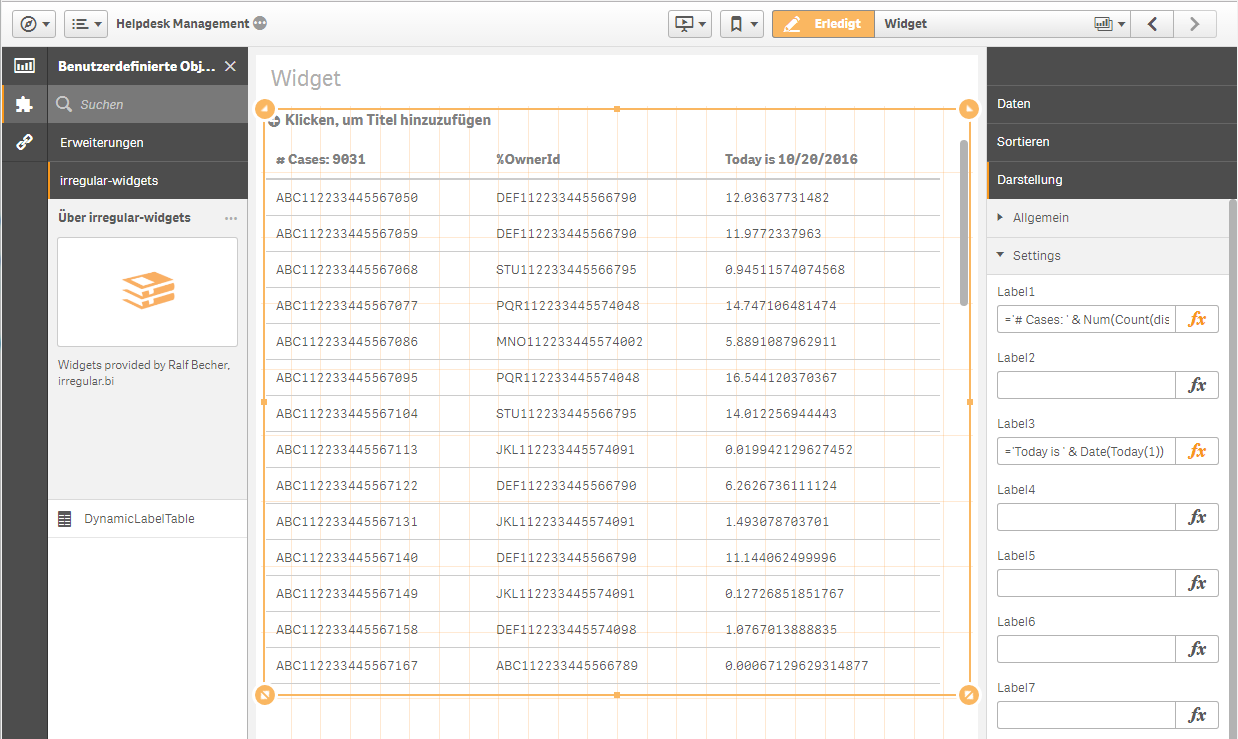
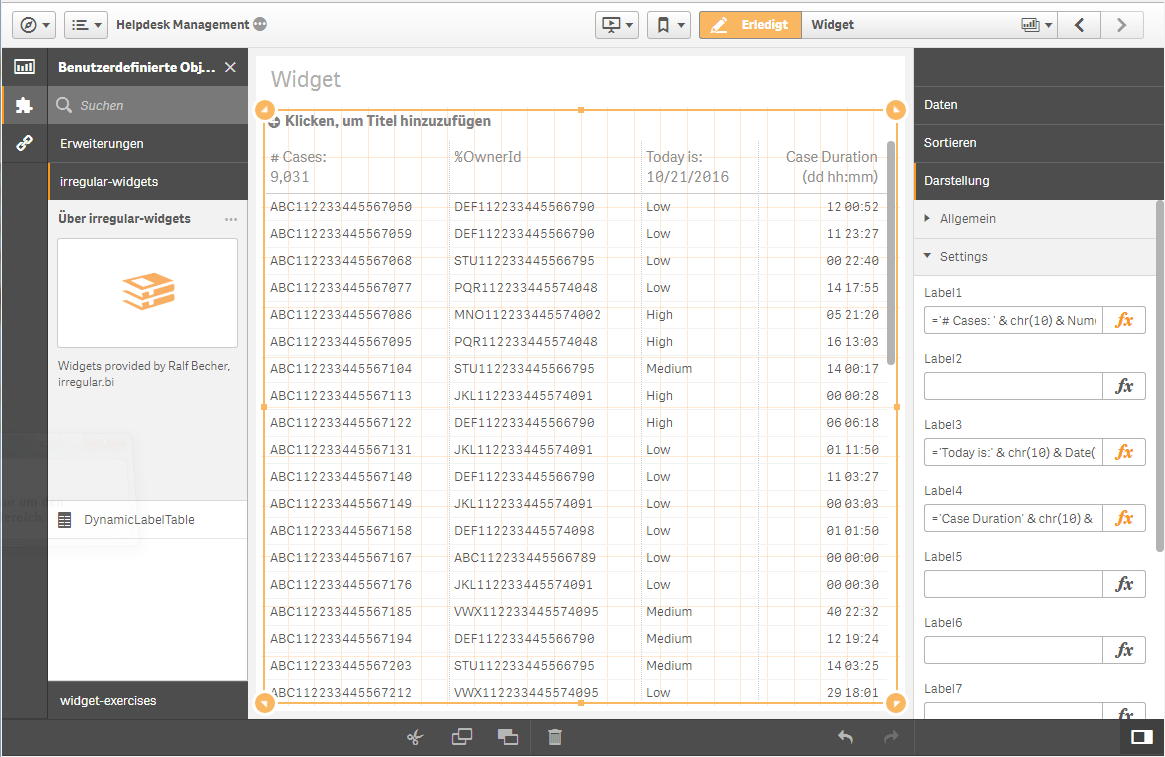
layout improvements

Changed region(s): [[0.0, 0.0, 1.0, 1.0], [0.4944, 0.0, 0.9888, 0.0622], [0.0927, 0.3424, 0.1545, 0.4357]]

diff --git a/irregular-widgets/80cca34a-cd52-41cf-9253-d81913b6e8e0.html b/irregular-widgets/80cca34a-cd52-41cf-9253-d81913b6e8e0.html
@@ -1,33 +1,52 @@
 <style>.wrapper {
-    margin-right:20px;
-	
-	table {
+    table {
+    	margin-right:20px;
+		border-collapse: collapse;
 		thead tr th {
-		border-bottom-style:solid;
-		border-bottom-color:#ccc;
-		border-bottom-width:2px;
-		padding-bottom:5px;
-		text-align:left;
-		color:#808080;
-		font-size:14px;
-		padding:10px;
+		border-bottom-width: 1px;
+    	border-bottom-style: solid;
+    	border-bottom-color: rgb(204, 204, 204);
+		color: #8C8C8C;
+		font-size: 1.15384615em;
+		font-weight: 400;
+		padding-top: 0.4em;
+    	padding-bottom: 0.4em;
+	  	padding-left: 0.30769231em;
+	  	padding-right: 0.61538462em;
 	  }
 	  
 	  tbody tr {
-		  line-height:35px;
-		  border-top-style:solid;
-		  border-top-color:#cccccc;
-		  border-top-width:1px;
+		line-height: 35px;
+		border-bottom-width: 1px;
+    	border-bottom-style: solid;
+    	border-bottom-color: rgb(242, 242, 242);
+		background-color: transparent;
 	  }
-	  tbody td {
-	  	padding-left:10px;
-	  }
+	tbody td {
+	    line-height: 1.23076923;
+		white-space: nowrap;
+		padding-top: 0.4em;
+	  	padding-bottom: 0.4em;
+	  	padding-left: 0.30769231em;
+	  	padding-right: 0.61538462em;
+   		max-height: 3.69230769em;
+		background-color: transparent;
+		}
 	}
-}
 
-
-.center {
-    text-align:center;
+	.cell-align-left {
+		text-overflow: ellipsis;
+		text-align: left;
+	}
+	.cell-align-right {
+		text-overflow: ellipsis;
+	  	text-align: right;
+	}
+	.cell-border-right {
+		border-right-width: 1px;
+    	border-right-style: dotted;
+    	border-right-color: rgb(204, 204, 204);	
+	}
 }</style>
 <div><div class="wrapper">
 <div class="top-header" ng-if="settings.tableHeaderTitle">
@@ -36,15 +55,15 @@
 <table>
 	<thead>
 		<tr>
-			<th ng-repeat="head in data.headers track by $index" class="header" qva-activate="head.orderBy()">
-			<span ng-if="settings['dynLabel'+($index+1)]" style="white-space: pre" >{{settings['dynLabel'+($index+1)]}}</span>
-			<span ng-if="!(settings['dynLabel'+($index+1)])" >{{head.qFallbackTitle}}</span>
+			<th ng-repeat="head in data.headers track by $index" class="header {{$index < (data.headers.length -1) &amp;&amp; ('cell-border-right')}} {{$index >= data.qHyperCube.qDimensionInfo.length &amp;&amp; ('cell-align-right') || ('cell-align-left')}}" qva-activate="head.orderBy()">
+			<span ng-if="settings['dynLabel'+($index+1)]" style="white-space: pre">{{settings['dynLabel'+($index+1)]}}</span>
+			<span ng-if="!(settings['dynLabel'+($index+1)])">{{head.qFallbackTitle}}</span>
 			</th>
 		</tr>
 	</thead>
 	<tbody>
 		<tr ng-repeat="row in data.rows track by $index">
-		  <td ng-repeat="cell in row.cells track by $index" qva-activate="cell.select()" class="selectable"> {{cell.qText}} </td>
+		  <td ng-repeat="cell in row.cells track by $index" qva-activate="cell.select()" class="selectable {{$index < (row.cells.length -1) &amp;&amp; ('cell-border-right')}} {{$index >= data.qHyperCube.qDimensionInfo.length &amp;&amp; ('cell-align-right') || ('cell-align-left')}}">{{cell.qText}}</td>
 		</tr>
 	</tbody>
 </table>
